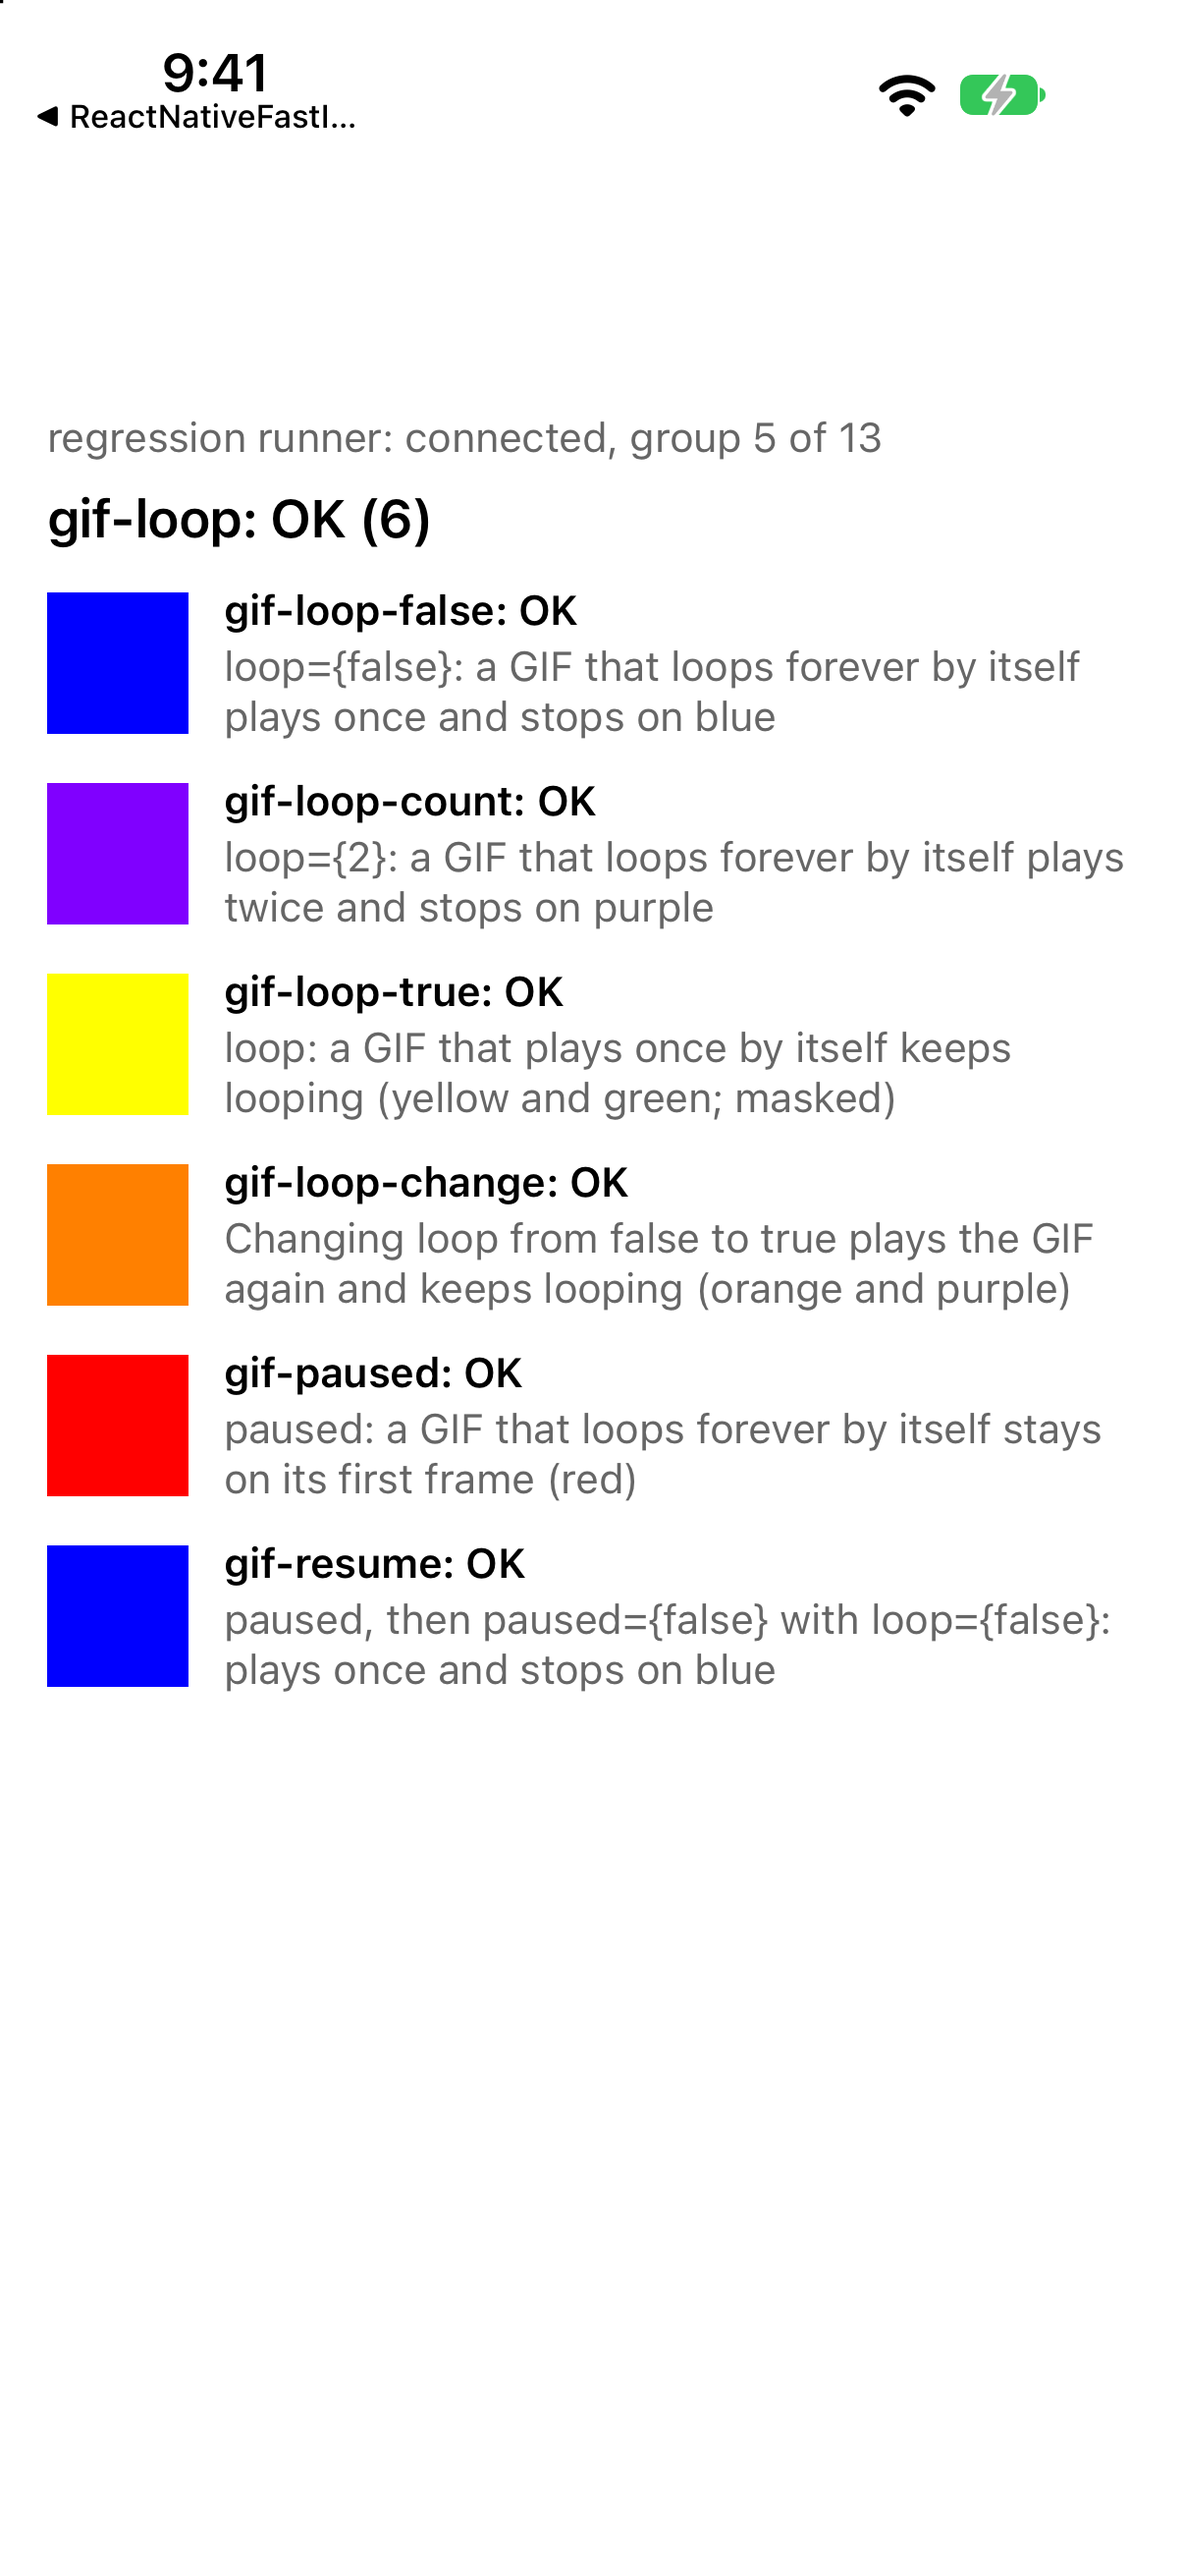
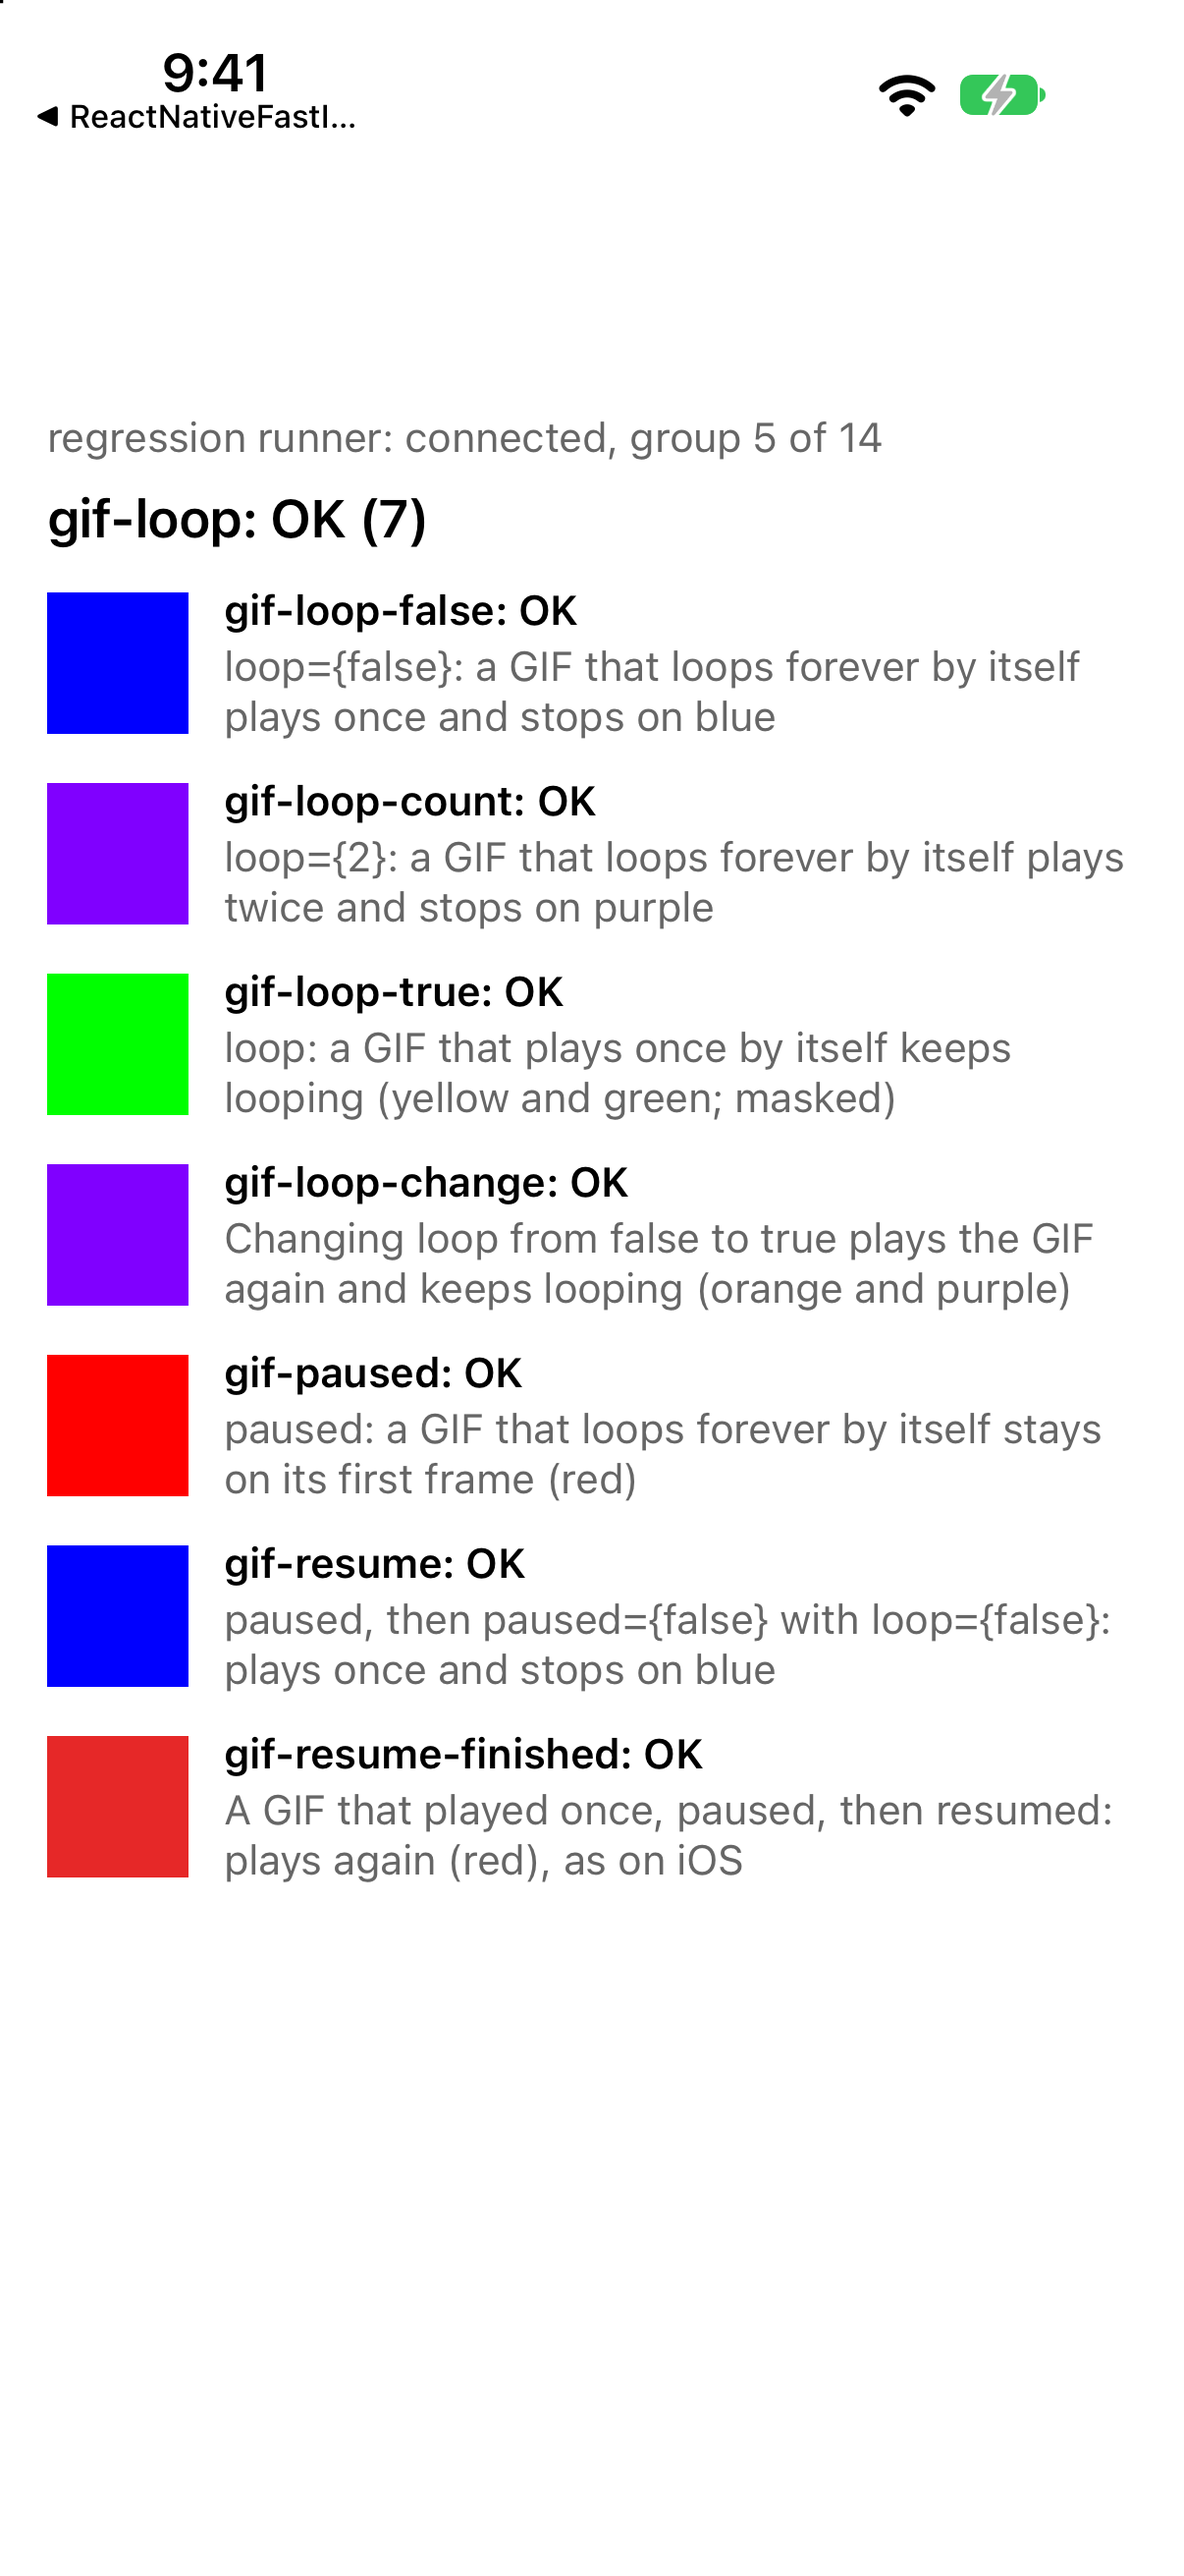
fix(android): resuming a paused GIF continues its loop count, as on iOS

diff --git a/ReactNativeFastImageExample/src/RegressionExample.tsx b/ReactNativeFastImageExample/src/RegressionExample.tsx
@@ -1214,6 +1214,42 @@ function GifPausedCase({ resume }: { resume?: boolean }) {
     )
 }
 
+// A GIF that plays once (1.5 s red, then 0.1 s blue), paused after it
+// finished, then resumed: it plays again from the start, on both platforms
+// (iOS's player does; Android matches it), so it's red at the screenshot. One
+// that's still playing continues its count instead.
+function GifResumeFinishedCase() {
+    const [paused, setPaused] = useState(false)
+    const [ok, setOk] = useState(false)
+    const timer = useRef<ReturnType<typeof setTimeout>>(undefined)
+    useEffect(() => () => clearTimeout(timer.current), [])
+    return (
+        <View style={styles.row}>
+            <FastImage
+                style={styles.image}
+                paused={paused}
+                source={{ uri: imageUrl('slow-once.gif') }}
+                onLoad={() => {
+                    clearTimeout(timer.current)
+                    // Its one play (1.6 s), then pause, then resume.
+                    timer.current = setTimeout(() => {
+                        setPaused(true)
+                        timer.current = setTimeout(() => {
+                            setPaused(false)
+                            timer.current = setTimeout(() => setOk(true), 300)
+                        }, 200)
+                    }, 1600 + GIF_MARGIN)
+                }}
+            />
+            <CaseStatus
+                id="gif-resume-finished"
+                status={ok ? 'OK' : 'waiting'}
+                description="A GIF that played once, paused, then resumed: plays again (red), as on iOS"
+            />
+        </View>
+    )
+}
+
 // loop={false}, then loop={true} once the GIF has played once: it starts
 // again and keeps looping (orange and purple). Masked: it's animating.
 function GifLoopChangeCase() {
@@ -1597,6 +1633,7 @@ export const REGRESSION_GROUPS: RegressionGroup[] = [
             <GifLoopChangeCase key="gif-loop-change" />,
             <GifPausedCase key="gif-paused" />,
             <GifPausedCase key="gif-resume" resume />,
+            <GifResumeFinishedCase key="gif-resume-finished" />,
         ],
     },
     {

diff --git a/android/src/main/java/com/dylanvann/fastimage/FastImageGif.java b/android/src/main/java/com/dylanvann/fastimage/FastImageGif.java
@@ -18,6 +18,7 @@ import com.bumptech.glide.load.resource.bitmap.BitmapResource;
 import com.bumptech.glide.load.resource.gif.GifBitmapProvider;
 import com.bumptech.glide.load.resource.gif.GifDrawable;
 
+import java.lang.reflect.Field;
 import java.nio.ByteBuffer;
 
 // Gives a view its own animation of a GIF. Glide gives every view that shows
@@ -62,6 +63,42 @@ final class FastImageGif {
             copy.setFrameTransformation(transformation, transformed.get());
         }
         return copy;
+    }
+
+    // GifDrawable.start() also starts counting plays again, so a paused GIF
+    // would play its whole loop count again when resumed; iOS continues it.
+    // The count isn't public: keep it across start() by reflection. A GIF
+    // that already finished its plays starts over, as on iOS. Without the
+    // fields (another Glide version), it counts again, as start() does.
+    @Nullable
+    private static final Field LOOP_COUNT = field("loopCount");
+    @Nullable
+    private static final Field MAX_LOOP_COUNT = field("maxLoopCount");
+
+    static void resume(GifDrawable gif) {
+        if (LOOP_COUNT == null || MAX_LOOP_COUNT == null) {
+            gif.start();
+            return;
+        }
+        try {
+            int played = LOOP_COUNT.getInt(gif);
+            int max = MAX_LOOP_COUNT.getInt(gif);
+            gif.start();
+            if (max == GifDrawable.LOOP_FOREVER || played < max) LOOP_COUNT.setInt(gif, played);
+        } catch (IllegalAccessException e) {
+            gif.start();
+        }
+    }
+
+    @Nullable
+    private static Field field(String name) {
+        try {
+            Field field = GifDrawable.class.getDeclaredField(name);
+            field.setAccessible(true);
+            return field.getType() == int.class ? field : null;
+        } catch (Exception e) {
+            return null;
+        }
     }
 
     // ByteBufferGifDecoder's.

diff --git a/android/src/main/java/com/dylanvann/fastimage/FastImageViewWithUrl.java b/android/src/main/java/com/dylanvann/fastimage/FastImageViewWithUrl.java
@@ -96,9 +96,8 @@ class FastImageViewWithUrl extends AppCompatImageView {
             if (paused) {
                 mOwnGif.stop();
             } else {
-                // Also starts counting plays again (GifDrawable resets its
-                // loop count on start).
-                mOwnGif.start();
+                // Continues the loop count, as on iOS.
+                FastImageGif.resume(mOwnGif);
             }
         }
     }
@@ -139,11 +138,17 @@ class FastImageViewWithUrl extends AppCompatImageView {
             super.onResourceReady(resource, transition);
         }
 
-        // The target starts animations again when the Activity does; not a
-        // paused one.
+        // The target starts animations again when the Activity does: not a
+        // paused one, and the view's own GIF continues its loop count (start()
+        // would count again).
         @Override
         public void onStart() {
-            if (!mPaused) super.onStart();
+            if (mPaused) return;
+            if (mOwnGif != null && getDrawable() == mOwnGif) {
+                FastImageGif.resume(mOwnGif);
+            } else {
+                super.onStart();
+            }
         }
 
         @Override
